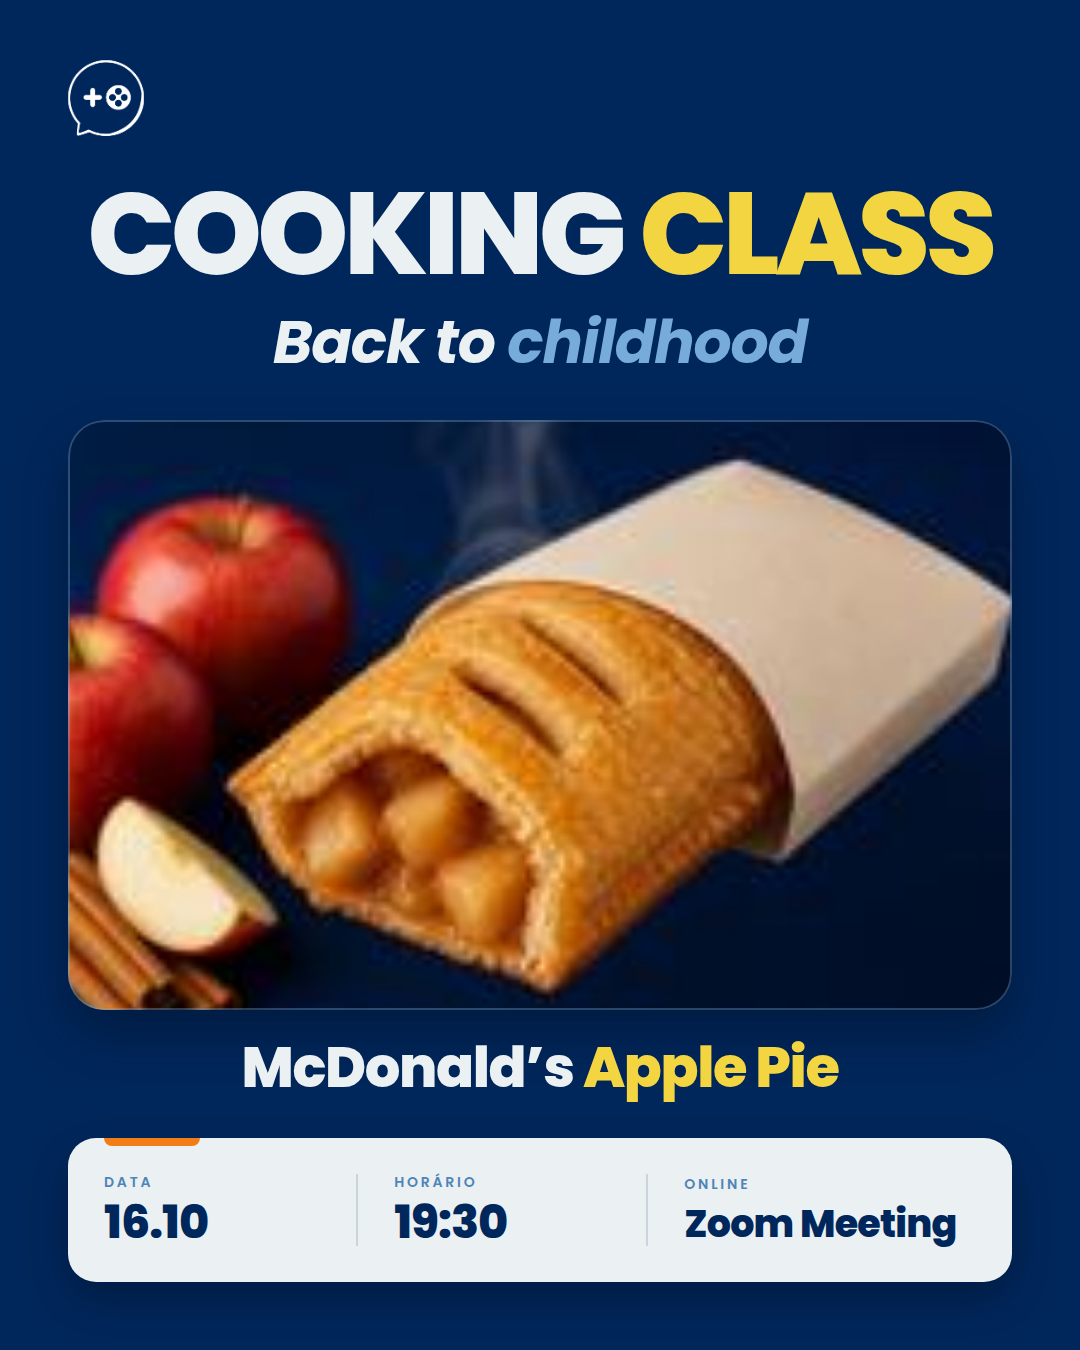
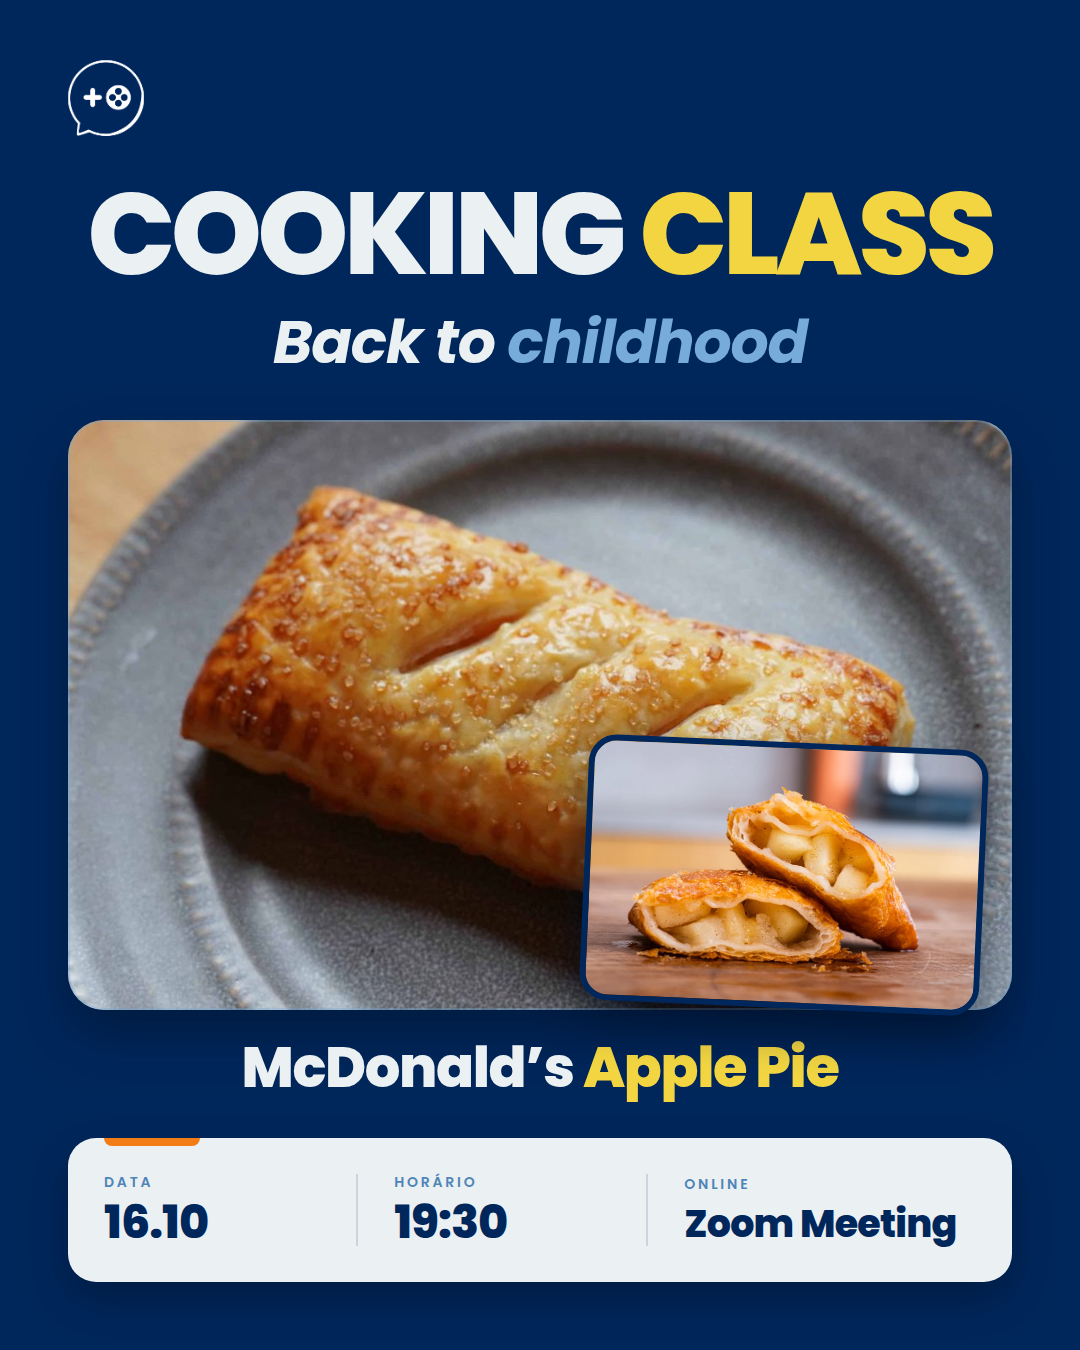
Use real apple pie photos in Cooking Class art
Claude-Session: https://claude.ai/code/session_01U3WxEK2yMyoZ5jbgGHEui1

diff --git a/art/cooking-class-back-to-childhood.html b/art/cooking-class-back-to-childhood.html
@@ -17,7 +17,10 @@ h1 span{color:var(--yellow)}
 .sub{position:absolute;left:0;right:0;top:312px;text-align:center;font:italic 700 60px/1 'Poppins';letter-spacing:-.02em;color:var(--mist)}
 .sub b{color:var(--sky);font-weight:700}
 .photo{position:absolute;left:var(--m);right:var(--m);top:420px;height:590px;border-radius:36px;overflow:hidden;background:#0A3569;box-shadow:0 24px 50px rgba(0,16,40,.5)}
-.photo img{position:absolute;left:50%;top:50%;width:960px;height:960px;transform:translate(-50%,-50%);object-fit:cover}
+.photo img{position:absolute;inset:0;width:100%;height:100%;object-fit:cover;object-position:35% 50%}
+.inset{position:absolute;right:calc(var(--m) + 28px);top:742px;width:400px;height:266px;border-radius:28px;overflow:hidden;border:6px solid var(--navy);box-shadow:0 20px 40px rgba(0,16,40,.55);transform:rotate(2.5deg);z-index:3}
+.inset img{width:100%;height:100%;object-fit:cover}
+.tag{position:absolute;left:calc(var(--m) + 28px);top:446px;background:var(--yellow);color:var(--navy);font:700 15px/1 'Poppins';letter-spacing:.18em;text-transform:uppercase;padding:12px 20px;border-radius:999px;z-index:3}
 .photo::after{content:"";position:absolute;inset:0;border-radius:36px;box-shadow:inset 0 0 0 2px rgba(119,171,217,.35)}
 .recipe{position:absolute;left:var(--m);right:var(--m);top:1040px;text-align:center;font:800 56px/1 'Poppins';letter-spacing:-.025em;color:var(--mist)}
 .recipe em{font-style:normal;color:var(--yellow)}
@@ -36,7 +39,8 @@ h1 span{color:var(--yellow)}
   <div class="logo"><img src="logo-ezclass-vazado.png" alt="Ez Class"></div>
   <h1>Cooking <span>Class</span></h1>
   <div class="sub">Back to <b>childhood</b></div>
-  <div class="photo"><img src="pie-photo.jpg" alt="Apple pie"></div>
+  <div class="photo"><img src="pie-whole.jpg" alt="Apple pie"></div>
+  <div class="inset"><img src="pie-open.webp" alt="Apple pie aberta"></div>
   <div class="recipe">McDonald’s <em>Apple Pie</em></div>
   <div class="info">
     <div class="cell"><div class="lab">Data</div><div class="val">16.10</div></div>
